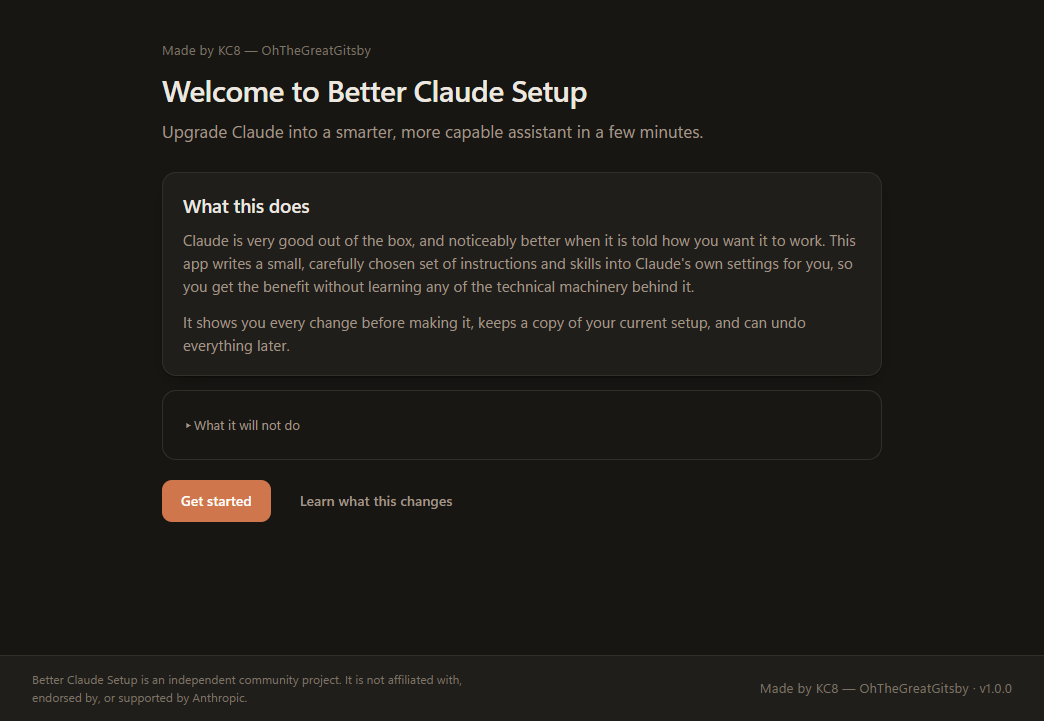
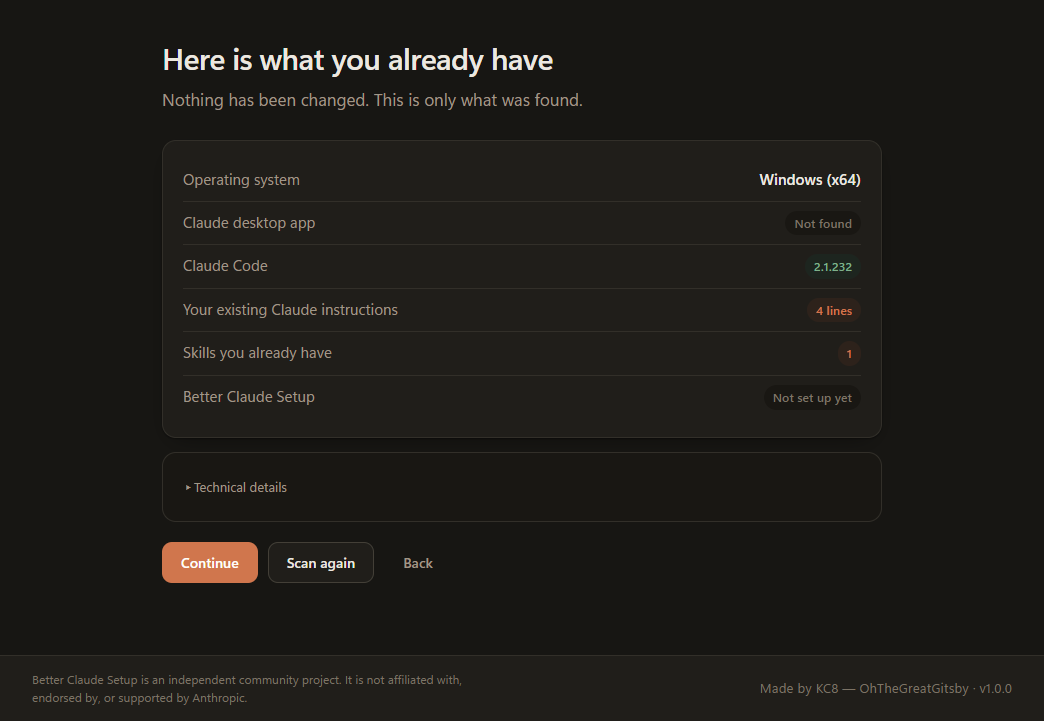
Add real screenshots, remove dead exports
Screenshots are captured from the built app driven against a throwaway
home directory, so they show real detection output rather than mockups.

Drops four exports nothing referenced: APP_VERSION_FALLBACK,
backupCoverage, ChannelName and componentsInCategory.

diff --git a/src/main/core/backup.ts b/src/main/core/backup.ts
@@ -1,7 +1,7 @@
 import { promises as fs } from 'node:fs'
-import { join, relative } from 'node:path'
+import { join } from 'node:path'
 import type { BackupRecord } from '@shared/types'
-import { backupsDir, claudeHome, claudeMdPath, claudeSettingsPath, skillsDir } from './env'
+import { backupsDir, claudeHome } from './env'
 import type { Env } from './env'
 import { copyDir, ensureDir, pathExists, removeIfExists } from './safe-fs'
 
@@ -99,12 +99,4 @@ export async function listBackups(env: Env): Promise<BackupRecord[]> {
     }
   }
   return records.sort((a, b) => b.createdAtIso.localeCompare(a.createdAtIso))
-}
-
-/** Paths the backup covers, for display on the permission screen. */
-export function backupCoverage(env: Env): string[] {
-  const home = claudeHome(env)
-  return [claudeSettingsPath(env), claudeMdPath(env), skillsDir(env)].map((p) =>
-    relative(home, p).replace(/\\/g, '/')
-  )
 }

diff --git a/src/main/core/catalog.ts b/src/main/core/catalog.ts
@@ -1,4 +1,4 @@
-import type { Category, CategoryId, ComponentMeta } from '@shared/types'
+import type { Category, ComponentMeta } from '@shared/types'
 import { SKILLS } from './content'
 
 /**
@@ -307,8 +307,4 @@ export function componentById(id: string): ComponentMeta | undefined {
 
 export function recommendedComponentIds(): string[] {
   return COMPONENTS.filter((c) => c.recommended).map((c) => c.id)
-}
-
-export function componentsInCategory(category: CategoryId): ComponentMeta[] {
-  return COMPONENTS.filter((c) => c.category === category)
 }

diff --git a/src/main/core/installer.ts b/src/main/core/installer.ts
@@ -48,8 +48,6 @@ interface Operation {
   version: string
 }
 
-export const APP_VERSION_FALLBACK = '1.0.0'
-
 /** Builds the exact list of changes an install would make, without making any of them. */
 export async function buildPlan(
   env: Env,

diff --git a/src/shared/channels.ts b/src/shared/channels.ts
@@ -19,5 +19,3 @@ export const CHANNELS = {
   openExternal: 'shell:open-external',
   revealConfig: 'shell:reveal'
 } as const
-
-export type ChannelName = (typeof CHANNELS)[keyof typeof CHANNELS]

diff --git a/README.md b/README.md
@@ -7,7 +7,12 @@ A small desktop app that configures Claude properly for you, and can undo everyt
 > Better Claude Setup is an independent community project. It is not affiliated with,
 > endorsed by, or supported by Anthropic.
 
-![The welcome screen](docs/screenshots/scan.png)
+![The system scan screen, showing what is already installed](docs/screenshots/scan.png)
+
+| | |
+| --- | --- |
+| ![Choosing components](docs/screenshots/customize.png) | ![The list of changes before anything happens](docs/screenshots/review.png) |
+| ![The result of a setup run](docs/screenshots/result.png) | ![Managing an existing setup](docs/screenshots/manager.png) |
 
 ---
 
